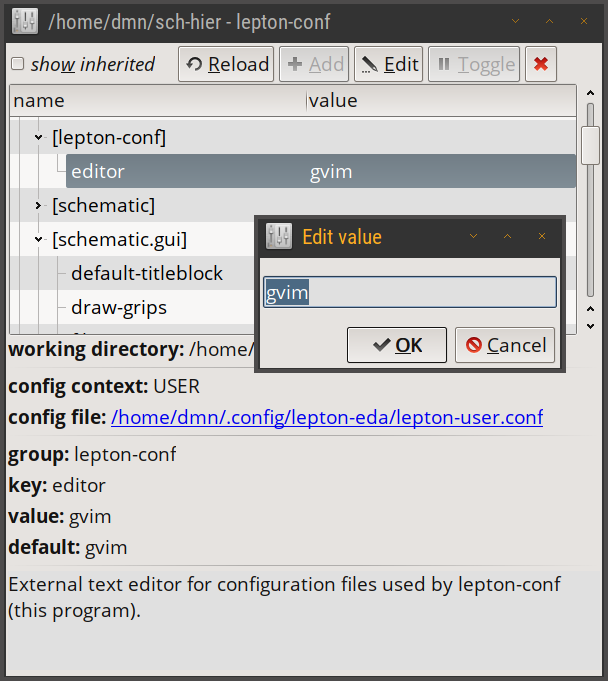
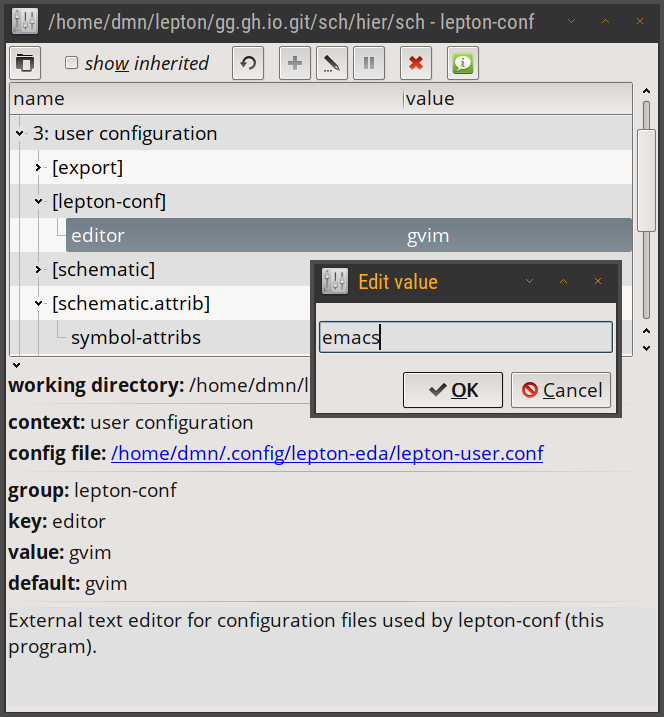
docs: update screenshots

Changed region(s): [[0.0, 0.0, 1.0, 0.9251], [0.0312, 0.9868, 0.9688, 1.0]]

diff --git a/docs/index.htm b/docs/index.htm
@@ -110,7 +110,7 @@ Attributes editor dialog for keys in the <a href='https://github.com/lepton-eda/
 
 <br />
 <hr />
-updated: 17/Mar/2021 &nbsp;&nbsp;&nbsp;&nbsp; copyright (c) 2017-2021
+updated: 27/Apr/2021 &nbsp;&nbsp;&nbsp;&nbsp; copyright (c) 2017-2021
 <a href='https://github.com/graahnul-grom'>dmn</a>
 <br />
 
